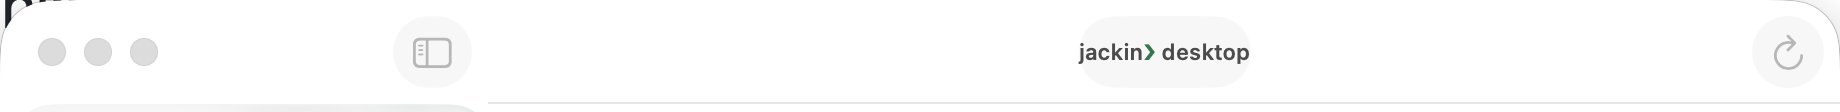
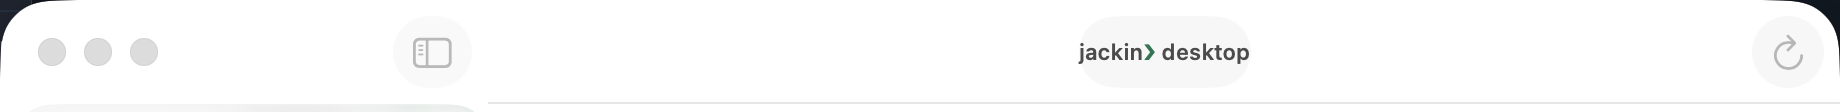
fix(desktop): validate Usage theme captures
Implicit window appearance produced byte-identical Dark and Light evidence while the manifest reported both as Pass. Apply theme at the window boundary and reject identical pairs.

Changed region(s): [[0.9603, 0.0, 1.0, 0.4286], [0.0, 0.0, 0.031, 0.2679]]

diff --git a/native/Tools/DesktopVisualSnapshotHarness/main.swift b/native/Tools/DesktopVisualSnapshotHarness/main.swift
@@ -148,14 +148,14 @@ struct DesktopVisualSnapshotHarness {
 
         // Real NSWindow (toolbar + sidebar nest + detail) via UsageWindowController.
         // Prefer CGWindow full-window over NSHostingView NavigationSplitView (sidebar blank offscreen).
-        let windowOkDark = captureUsageWindow(
+        var windowOkDark = captureUsageWindow(
             fixture: fixture,
             focusSurfaceId: "codex",
             appearance: .darkAqua,
             fullPath: "\(out)/usage-window-openai-dark.png",
             toolbarPath: "\(out)/usage-toolbar-dark.png"
         )
-        let overviewOkDark = captureUsageWindow(
+        var overviewOkDark = captureUsageWindow(
             fixture: fixture,
             focusSurfaceId: nil,
             appearance: .darkAqua,
@@ -163,7 +163,7 @@ struct DesktopVisualSnapshotHarness {
             toolbarPath: nil
         )
         // Toolbar may be BLOCKED even when full window PNG exists (white-blob icon crop).
-        let toolbarOkDark =
+        var toolbarOkDark =
             windowOkDark
             && !FileManager.default.fileExists(atPath: "\(out)/usage-toolbar-dark.BLOCKED.txt")
 
@@ -243,23 +243,54 @@ struct DesktopVisualSnapshotHarness {
             path: "\(out)/status-desktop-light.png",
             appearance: .aqua
         )
-        let windowOkLight = captureUsageWindow(
+        var windowOkLight = captureUsageWindow(
             fixture: fixture,
             focusSurfaceId: "codex",
             appearance: .aqua,
             fullPath: "\(out)/usage-window-openai-light.png",
             toolbarPath: "\(out)/usage-toolbar-light.png"
         )
-        let overviewOkLight = captureUsageWindow(
+        var overviewOkLight = captureUsageWindow(
             fixture: fixture,
             focusSurfaceId: nil,
             appearance: .aqua,
             fullPath: "\(out)/usage-window-overview-light.png",
             toolbarPath: nil
         )
-        let toolbarOkLight =
+        var toolbarOkLight =
             windowOkLight
             && !FileManager.default.fileExists(atPath: "\(out)/usage-toolbar-light.BLOCKED.txt")
+
+        if windowOkDark, windowOkLight,
+            !themeCapturesDiffer(
+                darkPath: "\(out)/usage-window-openai-dark.png",
+                lightPath: "\(out)/usage-window-openai-light.png",
+                scene: "usage-window-openai"
+            )
+        {
+            windowOkDark = false
+            windowOkLight = false
+        }
+        if overviewOkDark, overviewOkLight,
+            !themeCapturesDiffer(
+                darkPath: "\(out)/usage-window-overview-dark.png",
+                lightPath: "\(out)/usage-window-overview-light.png",
+                scene: "usage-window-overview"
+            )
+        {
+            overviewOkDark = false
+            overviewOkLight = false
+        }
+        if toolbarOkDark, toolbarOkLight,
+            !themeCapturesDiffer(
+                darkPath: "\(out)/usage-toolbar-dark.png",
+                lightPath: "\(out)/usage-toolbar-light.png",
+                scene: "usage-toolbar"
+            )
+        {
+            toolbarOkDark = false
+            toolbarOkLight = false
+        }
 
         // Manifest for VISUAL_QA_LOG honesty
         let manifest = """
@@ -520,6 +551,7 @@ struct DesktopVisualSnapshotHarness {
             controller.invalidate()
             return false
         }
+        window.appearance = NSAppearance(named: appearance)
 
         // Accessory→regular so titlebar/toolbar composites (matches live app path).
         NSApp.setActivationPolicy(.regular)
@@ -640,6 +672,31 @@ struct DesktopVisualSnapshotHarness {
         NSApp.setActivationPolicy(.prohibited)
         // Full shell Pass only when sidebar composites (not whiteout).
         return !sidebarWhiteout
+    }
+
+    /// Theme evidence must encode visibly different rendered pixels.
+    private static func themeCapturesDiffer(
+        darkPath: String,
+        lightPath: String,
+        scene: String
+    ) -> Bool {
+        guard let dark = FileManager.default.contents(atPath: darkPath),
+            let light = FileManager.default.contents(atPath: lightPath),
+            dark != light
+        else {
+            let reason = "\(scene) dark/light captures are byte-identical; theme evidence rejected."
+            for path in [darkPath, lightPath] {
+                let sidecar = path.replacingOccurrences(of: ".png", with: ".BLOCKED.txt")
+                try? reason.write(
+                    to: URL(fileURLWithPath: sidecar),
+                    atomically: true,
+                    encoding: .utf8
+                )
+            }
+            print("BLOCKED \(scene) [byte-identical dark/light captures]")
+            return false
+        }
+        return true
     }
 
     /// Prefer live composite: screencapture -R region, then -l, then CGWindow.

diff --git a/advisor-plans/qi-artifacts/deltas/2026-08-10-usage-window-openai.md b/advisor-plans/qi-artifacts/deltas/2026-08-10-usage-window-openai.md
@@ -1,0 +1,35 @@
+# QI delta: usage-window-openai · Dark + Light (G-U1–G-U6)
+
+**Date:** 2026-08-10 · **Tip:** `427a1439` + audited worktree  
+**Oracle HTML:** `html/usage-window-{dark,light}.png`  
+**Native:** `native/usage-window-openai-{dark,light}.png`
+
+## Dual-image
+
+| Check | HTML | Native | Match |
+|-------|------|--------|-------|
+| Toolbar | centered brand + Refresh | same | Yes |
+| Sidebar | floating glass navigation | same | Yes |
+| Provider nest | selected provider + two accounts | same | Yes |
+| Detail head | identity + external usage action | same | Yes |
+| Meta | one quiet details group | same | Yes |
+| Limits | one inset divided list | same | Yes |
+| Themes | distinct Dark and Light renderings | same | Yes |
+
+## False-pass correction
+
+Earlier full-window Dark and Light captures were byte-identical while the
+manifest reported both as Pass. Window appearance was inherited implicitly,
+and no cross-theme evidence gate existed. The harness now sets
+`NSWindow.appearance` and rejects byte-identical theme pairs.
+
+## Different (not High)
+
+| Severity | Element | Notes |
+|----------|---------|-------|
+| Low | Provider inventory | Fixed QI fixture has three providers; HTML scene has five |
+| N/A | Traffic lights | System chrome |
+
+## Verdict
+
+**Verdict: Pass** (Dark + Light)

diff --git a/advisor-plans/qi-artifacts/parity-matrix.md b/advisor-plans/qi-artifacts/parity-matrix.md
@@ -1,6 +1,6 @@
 # Final goal parity matrix — UI_PARITY_MASTER §6
 
-**Tip:** plan/desktop-visual @ 1025b5b5  
+**Tip:** plan/desktop-visual @ 427a1439 + audited worktree  
 
 ## High residual craft (product)
 **None.**
@@ -15,6 +15,7 @@
 | usage-overview | Pass | Pass | per-account cards |
 | usage-provider-nest | Pass | Pass | 57%/0% |
 | usage-detail-openai | Pass | Pass | Session/Weekly/Spark/LRC |
+| usage-window-openai | Pass | Pass | full shell; theme-distinct captures |
 | usage-toolbar | Pass | Pass | readable Refresh both themes |
 
 ## Live
@@ -24,4 +25,4 @@
 | ctx-menu-live | BLOCKED |
 
 ## Gates
-L1+L2 ALL PASS · MANIFEST usage_window_openai_dark OK · usage_toolbar_dark OK
+L1+L2 ALL PASS · MANIFEST Usage full shell + toolbar Dark/Light OK · theme pairs byte-distinct

diff --git a/advisor-plans/VISUAL_QA_LOG.md b/advisor-plans/VISUAL_QA_LOG.md
@@ -60,6 +60,12 @@ no longer create separate floating cards. One inset limit-list now owns all
 quota rows and full-width dividers, including structured Limit Reset Credits,
 matching the HTML oracle in deterministic dark/light component captures.
 
+Full-window evidence re-audit corrected another false-pass: the harness had
+accepted byte-identical Dark/Light window images. It now applies appearance to
+the `NSWindow` explicitly and rejects identical theme pairs. New theme-distinct
+full-shell captures prove the floating sidebar, centered toolbar, and single
+divided limit-list together.
+
 ## Live
 popover-live / ctx-menu **BLOCKED** — SoTParity proves focus/menu.
 
